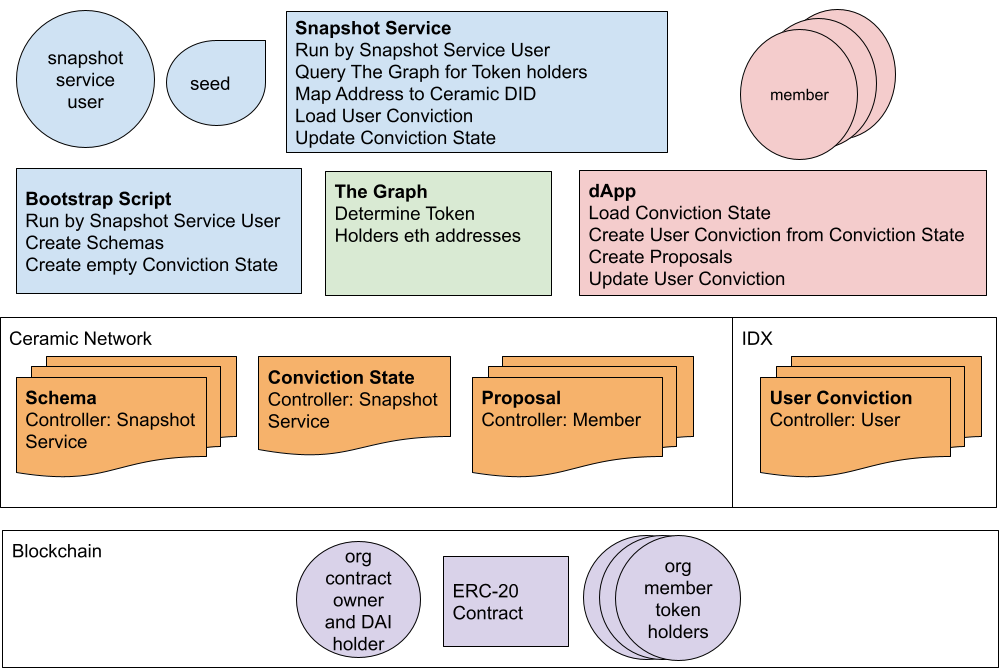
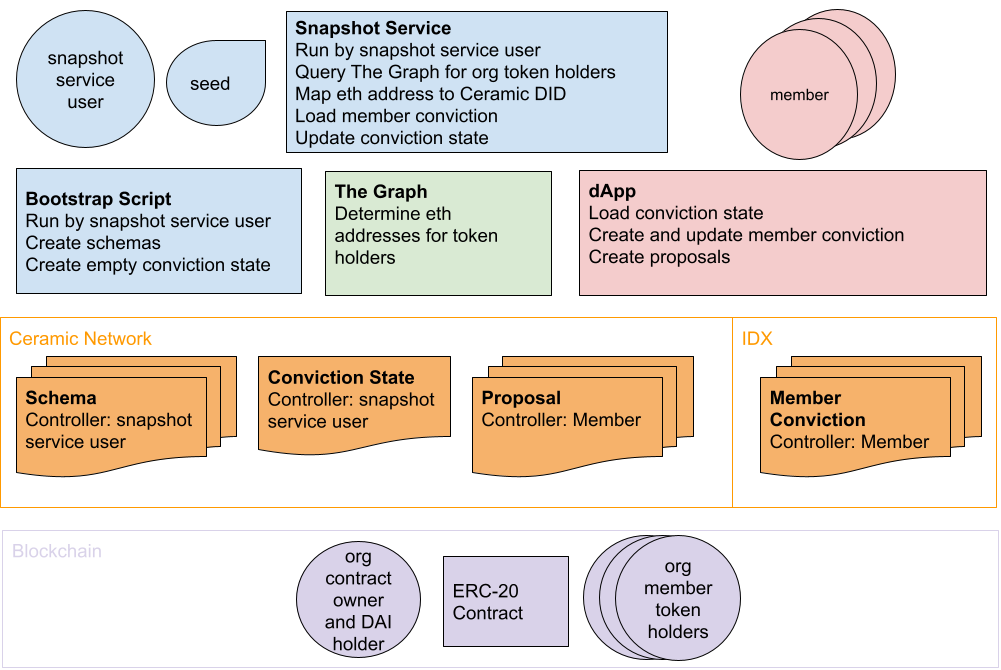
update diagram; fix spelling

diff --git a/README.md b/README.md
@@ -1,7 +1,7 @@
 
 # Off-chain Conviction Voting
 
-Submission to GitCion GR9 Hackathon
+Submission to GitCoin GR9 Hackathon
 
 An off-chain implementation of Conviction Voting where organization members can vote on proposals by allocating a percentage of their tokens to the proposal. Conviction is calculated with a snapshot service that runs regularly. Instead of staking tokens, it is implemented using off-chain, verifiable data structures managed by Ceramic and IDX.
 
